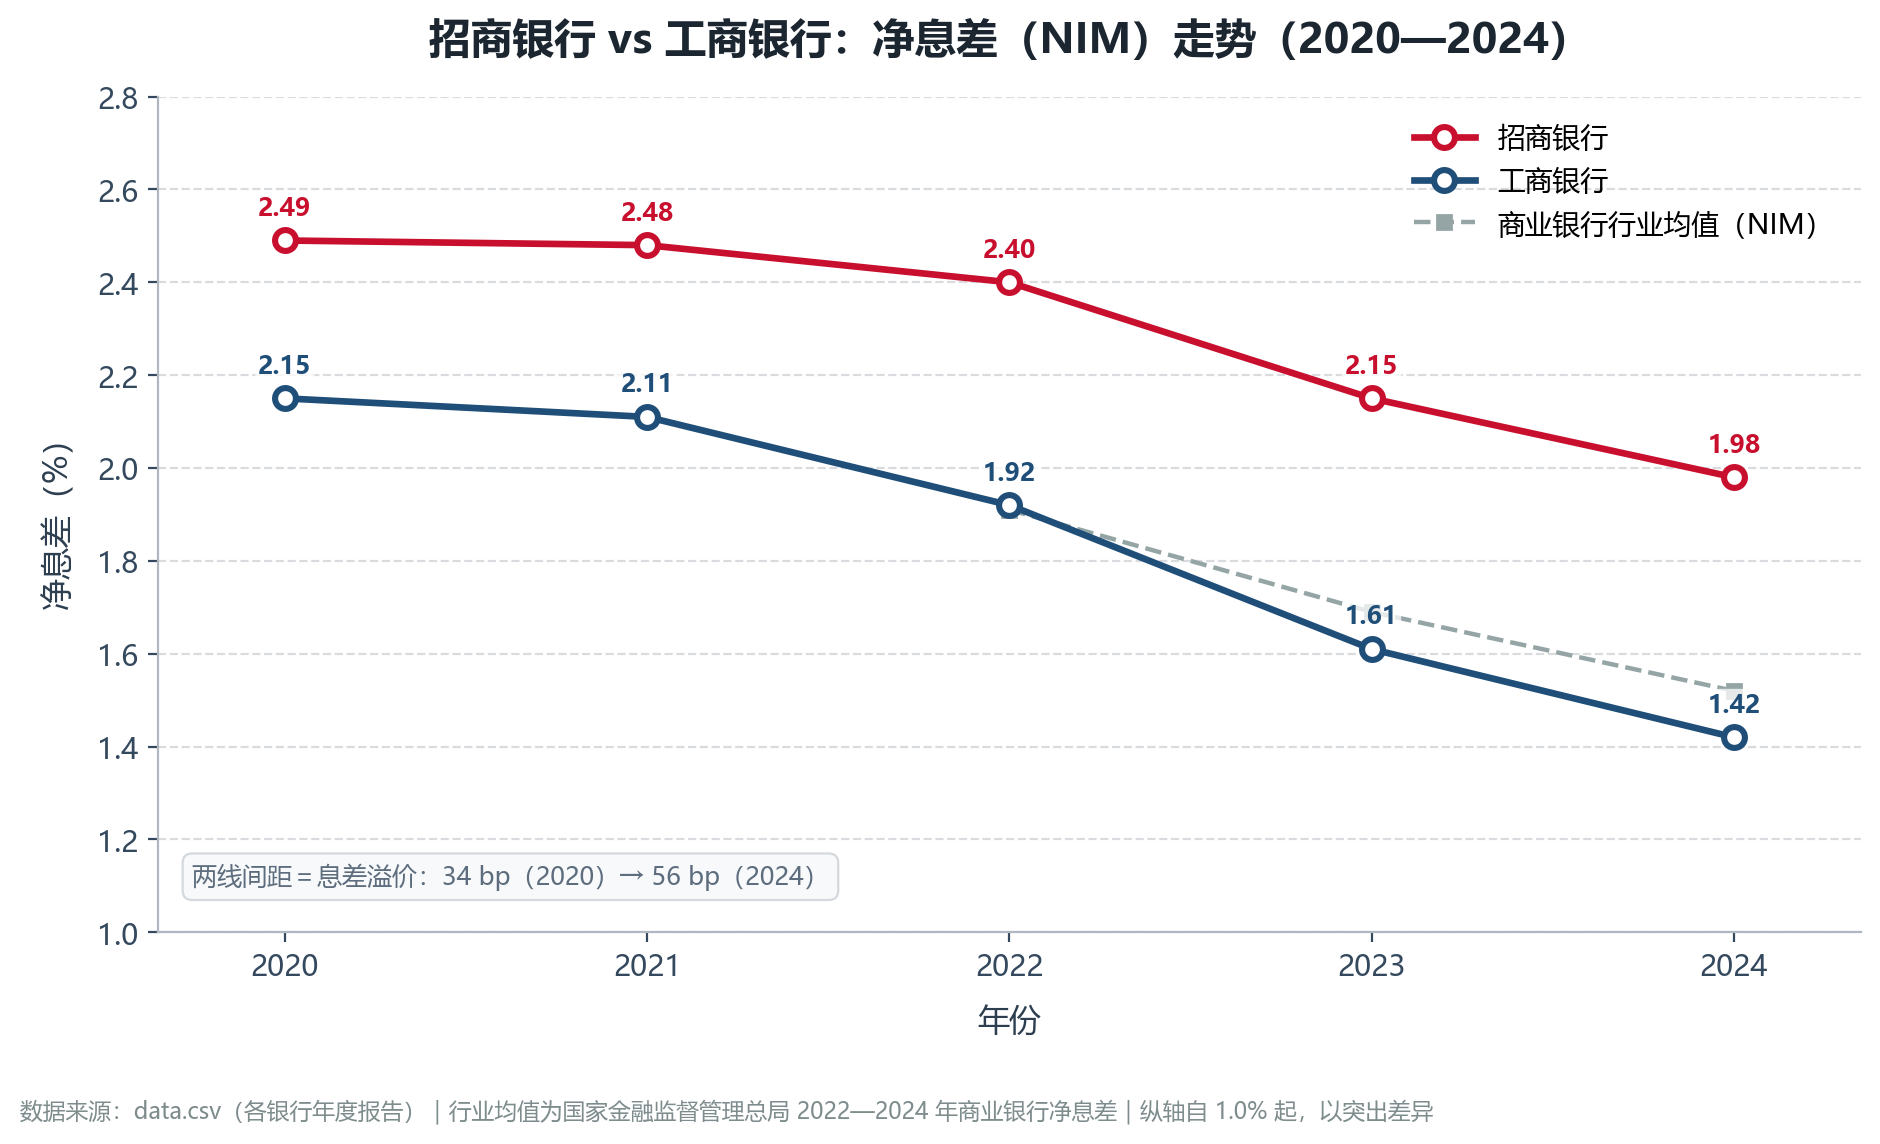
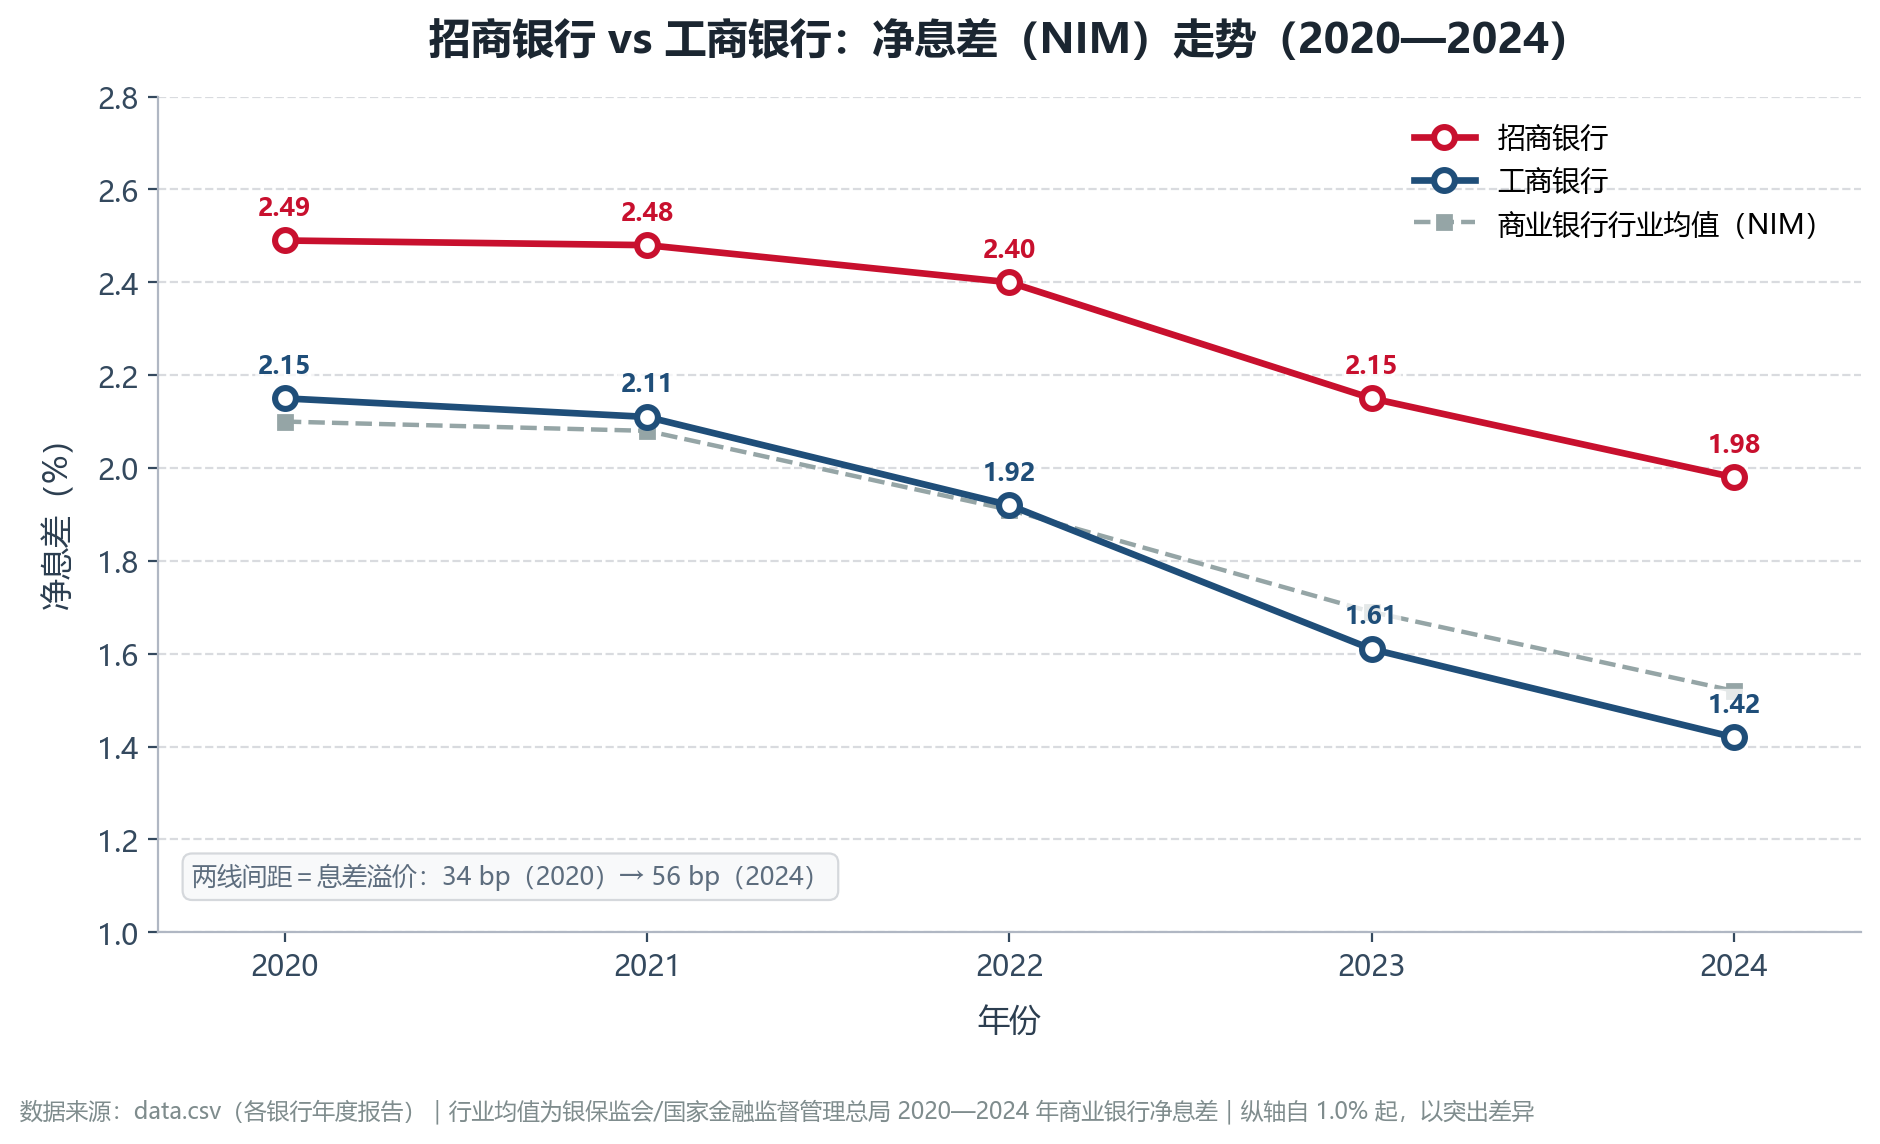
feat(chart): 行业均值补齐 2020—2021，改为五年版；版本统一 v0.2.2

diff --git a/main.py b/main.py
@@ -3,7 +3,7 @@
 """
 main.py —— 商业银行净息差（NIM）与不良贷款率（NPL）可视化工具
 
-版本：v0.2.0
+版本：v0.2.2
 
 功能
 ----
@@ -35,7 +35,7 @@ import numpy as np
 import pandas as pd
 from matplotlib import font_manager
 
-__version__ = "0.2.0"
+__version__ = "0.2.2"
 
 # --------------------------------------------------------------------------- #
 # 0. 全局配置
@@ -58,11 +58,12 @@ COLUMN_ALIASES = {
     "不良率%": ["不良率%", "不良率(%)", "不良率", "npl", "不良贷款率"],
 }
 
-# 行业基准：商业银行整体净息差（%），来源为国家金融监督管理总局季度监管指标。
-# 只收录与样本年份重叠的 2022—2024 年；2025Q4 为 1.42%，不在样本期内故不绘入。
-INDUSTRY_NIM = {2022: 1.91, 2023: 1.69, 2024: 1.52}
+# 行业基准：商业银行整体净息差（%）。
+# 来源：2020 年为国家金融监督管理总局原表；2021—2024 年为银保监会/金监总局季度监管指标
+# （2021 年为三源交叉整理值）。2025Q4 为 1.42%，不在样本期内故不绘入。
+INDUSTRY_NIM = {2020: 2.10, 2021: 2.08, 2022: 1.91, 2023: 1.69, 2024: 1.52}
 INDUSTRY_NAME = "商业银行行业均值"
-INDUSTRY_SOURCE = "国家金融监督管理总局 2022—2024 年商业银行净息差"
+INDUSTRY_SOURCE = "银保监会/国家金融监督管理总局 2020—2024 年商业银行净息差"
 
 # 品牌感配色；未收录的银行按顺序取 FALLBACK_COLORS
 BANK_COLORS = {

diff --git a/README.md b/README.md
@@ -2,7 +2,7 @@
 
 > 用 Python 把「银行年度经营指标表」变成「两张可直接进报告的图 + 一份可复核的数字摘要」。
 >
-> 课程：金融市场与金融机构　｜　版本：v0.2.0　｜　作者：李林韩（3202610133）
+> 课程：金融市场与金融机构　｜　版本：v0.2.2　｜　作者：李林韩（3202610133）
 >
 > 仓库：<https://github.com/ZHAO-417/bank-nim-analyzer>　｜　许可证：[MIT](LICENSE)
 
@@ -52,7 +52,7 @@
 
 **（1）两家息差同期收窄，工行幅度更大。** 工行五年累计 −73 bp，比招行的 −51 bp 多 22 bp；2022 年后两家斜率都变陡，与 LPR 集中下调的时间窗口一致。
 
-**（2）息差溢价扩大，但结论对口径不敏感。** 招行相对工行的溢价由 2020 年 34 bp 扩大到 2024 年 56 bp。改用**净利差**口径复核：2024 年招行 1.86%、工行 1.23%，溢价 63 bp——方向一致、幅度相差 7 bp，说明"溢价扩大"不是 NIM 单一分母口径的产物。图中在 2022—2024 年叠加了商业银行行业均值（1.91→1.69→1.52），招行始终高于行业、工行 2024 年已低于行业 10 bp。
+**（2）息差溢价扩大，但结论对口径不敏感。** 招行相对工行的溢价由 2020 年 34 bp 扩大到 2024 年 56 bp。改用**净利差**口径复核：2024 年招行 1.86%、工行 1.23%，溢价 63 bp——方向一致、幅度相差 7 bp，说明"溢价扩大"不是 NIM 单一分母口径的产物。图中叠加了 2020—2024 年商业银行行业均值（2.10→2.08→1.91→1.69→1.52）：招行五年始终高于行业；工行 2020—2022 年略高于或持平行业，**2023 年首次低于行业**（1.61% vs 1.69%），2024 年低 10 bp。
 
 **（3）不良率同步下行，差距收窄的实质是工行改善更快。** 工行 −24 bp、招行 −12 bp，差距由 0.51 个百分点收窄至 0.39 个百分点。招行 2021 年触及 0.91% 后基本持平（0.96→0.95→0.95），因此"差距收窄"不等于"招行资产质量变差"。
 
@@ -62,7 +62,7 @@
 
 **（6）关于"高定价 vs 高风险"的权衡。** 行业平均意义上，更高的资产定价往往对应客群下沉与更高的信用风险；但本样本中招行同时呈现"高 NIM + 低 NPL"，说明该权衡在个体层面并非必然。一个可检验的解释是：招行的高 NIM 来自**负债端便宜**而非资产端冒险——2024 年其计息负债平均成本率 1.64%、活期存款日均占比 50.34%。这是一个**待检验命题**，本版本只给出方向与证据，不做因果结论。
 
-> 数据说明：第（2）—（5）项中的净利差、ROAA/ROAE、拨备覆盖率、贷款拨备率、成本收入比、活期占比均为 2024 年年报披露值，由作者手工摘录；行业均值为国家金融监督管理总局 2022—2024 年商业银行季度指标（课件第 17 章 slide 39 引用同源数据）。
+> 数据说明：第（2）—（5）项中的净利差、ROAA/ROAE、拨备覆盖率、贷款拨备率、成本收入比、活期占比均为 2024 年年报披露值，由作者手工摘录；行业均值为银保监会/国家金融监督管理总局 2020—2024 年商业银行季度指标（2020 年为原表；2021 年为三源交叉整理值；2022 年起与课件第 17 章 slide 39 同源）。
 
 ## 四、功能特性
 
@@ -78,7 +78,7 @@
 仓库根目录（克隆后）：
 
 ```text
-bank-nim-analyzer/
+bank-nim-analyzer/        # 仓库结构；提交包按作品拆为 5 个文件夹，对应关系见 作品清单.txt
 ├── main.py            # 主程序：读取 → 清洗 → 透视 → 绘图 → 摘要
 ├── data.csv           # 数据源（UTF-8-BOM CSV，10 行）
 ├── requirements.txt   # 依赖与主版本约束
@@ -178,7 +178,7 @@ v0.2 做了两件事：
 ![净息差走势](chart_nim.png)
 
 - 纵轴**不从 0 起**（本例自 1.0% 起），否则 0.5 个百分点的差异会被压平；图注已披露起点，并用底部说明框标出"两线间距＝息差溢价：34 bp（2020）→ 56 bp（2024）"，避免读者高估视觉差距；
-- 灰色虚线为商业银行行业均值（2022—2024），仅覆盖有数据的年份，不用一条直线冒充全期基准；
+- 灰色虚线为商业银行行业均值（2020—2024 全部样本年份）：招行五年均高于行业；工行 2023 年首次低于行业（1.61% vs 1.69%），2024 年低 10 bp；
 - 每个数据点标注两位小数。
 
 ### 8.2 不良率柱状图
@@ -191,6 +191,8 @@ v0.2 做了两件事：
 ### 8.3 终端摘要
 
 四段输出：两张透视表、关键变动汇总（均值、区间、bp）、快速观察（含息差溢价）。**写报告时直接引用这些数字**。
+
+> 复现说明：数值摘要与表格数字对 matplotlib 版本不敏感；PNG 的像素结果会随渲染版本略有差异（例如 3.3 与 3.11 生成的图字节不同，数值相同）。提交包内两处 PNG 与 docx 内嵌图字节完全一致。
 
 ## 九、行业对标与 Gap 分析
 
@@ -296,6 +298,8 @@ v0.2 做了两件事：
 | --- | --- | --- | --- |
 | v0.1.0 | 2026-10-27 | `main.py` 首版；招行/工行 2020—2024 双图；SKILL.md 与 README.md | PyCharm 运行，exit code 0，两图人工核对 |
 | v0.2.0 | 2026-10-28 | 真 CSV（UTF-8-BOM）+ BytesIO 读取；行业均值；息差溢价说明；净利差/杜邦/拨备/行业基准补入README；LICENSE、作者、目录结构修复；图表标签与图注修订 | 运行 exit code 0；旧版 xlsx 备份兼容测试通过；两图目视核对 |
+| v0.2.1 | 2026-10-29 | 仅文档：修正附录 B.3 信用成本方向错误、CHANGELOG 版本号冲突、SKILL 目录示例 | docx 重新生成；数值与图表未变 |
+| v0.2.2 | 2026-10-29 | 行业均值补齐 2020（2.10%）与 2021（2.08%），图注改为五年版；补"工行 2023 年首次低于行业"的结论 | 运行 exit code 0；NIM 复核与 T06 原始科目对账误差 < 1 bp |
 
 ## 十二、已知限制
 
@@ -304,12 +308,12 @@ v0.2 做了两件事：
 3. 未处理跨行口径差异（五级分类细节、期末/日均余额），跨行比较结论需谨慎；
 4. 无单元测试，异常输入可能静默丢行（表现为行数变少）；
 5. 图表为静态 PNG，不支持交互筛选；
-6. 行业均值仅覆盖 2022—2024，2020—2021 年缺少同源基准。
+6. 行业均值为**全行业口径**（含国有大行、股份行、城农商行），不等于"股份制银行可比组"；n=2 时不宜把它当作同类对照组。
 
 ## 十三、数据来源与声明
 
 - 数据来源：招商银行、工商银行 2020—2024 年年度报告，手工摘录；
-- 行业数据：国家金融监督管理总局商业银行季度监管指标（2022—2024 年净息差；2025Q4 不良率 1.50%、拨备覆盖率 205.21%）；
+- 行业数据：银保监会/国家金融监督管理总局商业银行季度监管指标（2020—2024 年净息差，其中 2021 年为三源交叉整理值；2025Q4 不良率 1.50%、拨备覆盖率 205.21%）；
 - 本项目仅用于《金融市场与金融机构》课程学习与作品展示，**不构成任何投资建议**；
 - 图表与结论的解释权归作者，工具不对数据准确性作担保，引用前请回查年报原文。
 

diff --git a/SKILL.md b/SKILL.md
@@ -125,7 +125,7 @@ plot_npl(npl, "chart_npl.png")
 
 | 文件 | 内容 | 规格 |
 | --- | --- | --- |
-| `chart_nim.png` | 折线图：净息差（%），每家银行一条线，点上标数值；2022 年起叠加行业均值虚线；底部说明框标出首末年份的息差溢价（bp） | 200 dpi、白底、`bbox_inches="tight"` |
+| `chart_nim.png` | 折线图：净息差（%），每家银行一条线，点上标数值；2020 年起叠加行业均值虚线；底部说明框标出首末年份的息差溢价（bp） | 200 dpi、白底、`bbox_inches="tight"` |
 | `chart_npl.png` | 分组柱状图：不良率（%），每家银行一组柱，柱顶标数值 | 同上 |
 
 同名文件会被**直接覆盖**，不做备份。
@@ -198,7 +198,7 @@ python main.py
 - 本 Skill 的产出是**描述性统计与图形**，不构成对银行经营质量、投资价值的判断；
 - 引用数字时必须以 stdout/透视表为准，**禁止**由模型推测或补全缺失年份；
 - 跨行比较前须确认口径（五级分类、期末/日均余额、是否含应计利息、NIM 与净利差的区别），工具本身不校正口径差异；
-- 行业均值为内置常量（2022—2024），不随用户数据更新；超出该区间时不会绘制，也不得据此推断缺失年份的行业水平；
+- 行业均值为内置常量（2020—2024），不随用户数据更新；超出该区间时不会绘制，也不得据此推断缺失年份的行业水平；
 - 数据版权归原始披露方（各银行年度报告）；课程作业外的公开使用需自行核对授权；
 - 主观判断（为什么招行息差更高、这个趋势是否可持续）属于学生本人工作，不由本 Skill 代替。
 
@@ -208,5 +208,7 @@ python main.py
 | --- | --- | --- |
 | 0.1.0 | 2026-10-27 | 首个版本：格式自适应读取、列名容错、双图输出、字体自适应 |
 | 0.2.0 | 2026-10-28 | 标准 CSV + BytesIO 读取；行业均值虚线；息差溢价说明框；标签偏移修正；`--version` |
+| 0.2.1 | 2026-10-29 | 仅文档修订：信用成本方向、版本号冲突、目录示例 |
+| 0.2.2 | 2026-10-29 | 行业均值补齐 2020—2024 五年；图注与使用边界同步 |
 
 对应程序：`main.py` v0.2.0（本目录）。

diff --git a/CHANGELOG.md b/CHANGELOG.md
@@ -2,6 +2,21 @@
 
 本项目采用语义化版本 `MAJOR.MINOR.PATCH`：主版本对应成果形态变化，次版本对应新增功能，修订号对应 bug 修复与文档调整。
 
+## [0.2.2] — 2026-10-29
+
+补齐行业基准，并修正版本口径：自本版起恢复单一版本号（v0.2.1 为纯文档修订，已在下方注明）。
+
+### 新增
+
+- **行业均值补齐五年**：2020 年 2.10%、2021 年 2.08%（2020 年为国家金融监督管理总局原表；2021 年为三源交叉整理值），叠加后图 1 呈现完整的 2020—2024 行业下行线。
+- **新增结论**：招行五年均高于行业；工行 2020—2022 年略高于或持平行业，2023 年首次低于行业（1.61% vs 1.69%），2024 年低 10 bp。
+
+### 变更
+
+- 图注与 README 中"行业均值仅覆盖 2022—2024""仅覆盖有数据的年份"等表述同步改为五年版；
+- 已知限制第 6 条改为"行业均值为全行业口径，不等于股份制银行可比组"，避免把行业均值当同类对照；
+- 版本号统一为 v0.2.2（程序、README、作品清单、docx 一致）。
+
 ## [0.2.1] — 2026-10-29
 
 第二稿审阅后的修订。修一处事实错误、三处文案与实物不一致，不改功能。
